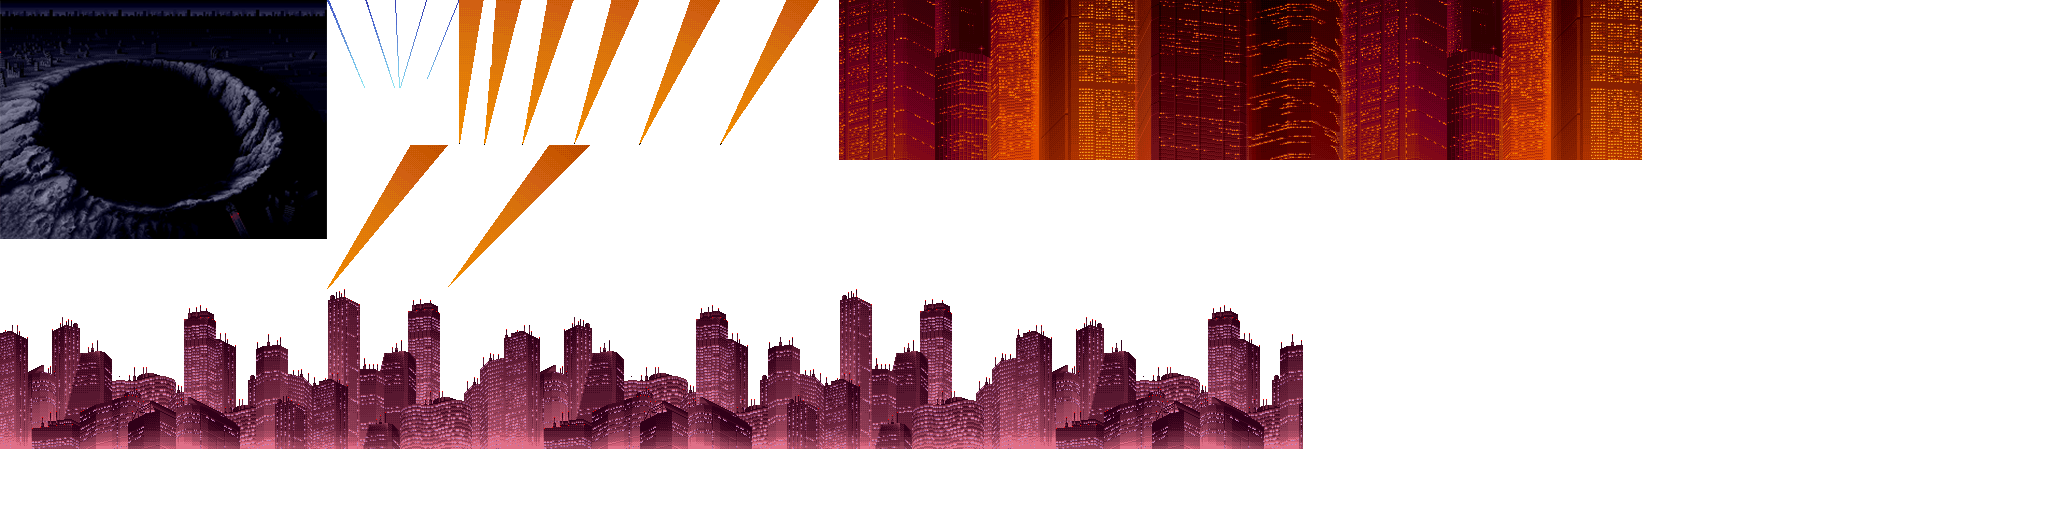
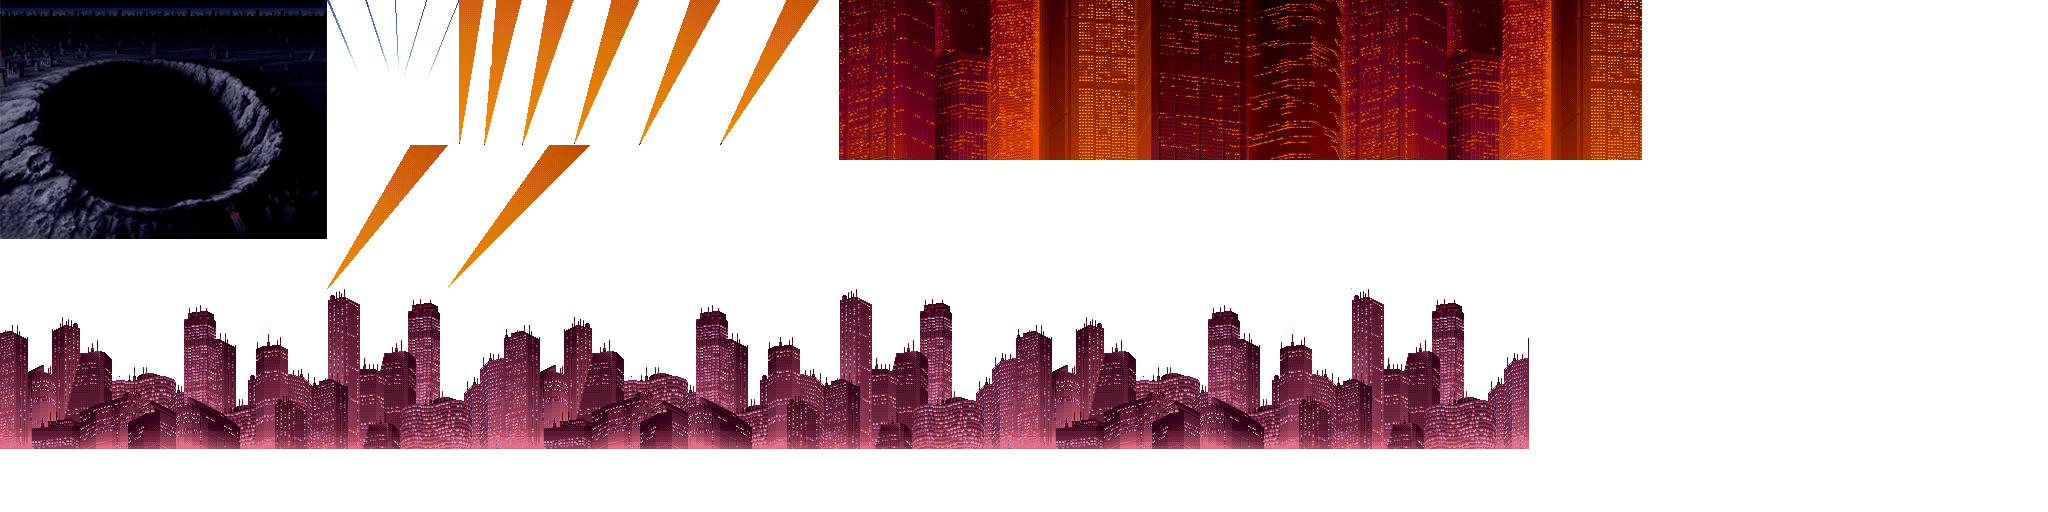
Fixed 1st level building - Parallax

Changed region(s): [[0.625, 0.5625, 0.75, 0.875]]

diff --git a/Last Resort Prototype/ModuleBackground.cpp b/Last Resort Prototype/ModuleBackground.cpp
@@ -23,7 +23,7 @@ ModuleBackground::ModuleBackground()
 	// 1st Level Building
 	building_1.x = 0;
 	building_1.y = 290;
-	building_1.w = 1304;
+	building_1.w = 1530;
 	building_1.h = 163;
 
 }
@@ -57,8 +57,8 @@ update_status ModuleBackground::Update()
 
 	// Draw everything --------------------------------------
 	App->render->Blit(graphics2, 0, 0, &crater, 0.f);
-	App->render->Blit(graphics2, 0, 30, &building_1, 0.7f);
-	App->render->Blit(graphics, 0, 0, &background, 0.75f); // sea and sky
+	App->render->Blit(graphics2, 0, 30, &building_1, 0.5f);
+	App->render->Blit(graphics, 0, 0, &background, 0.75f); 
 
 	return UPDATE_CONTINUE;
 }
